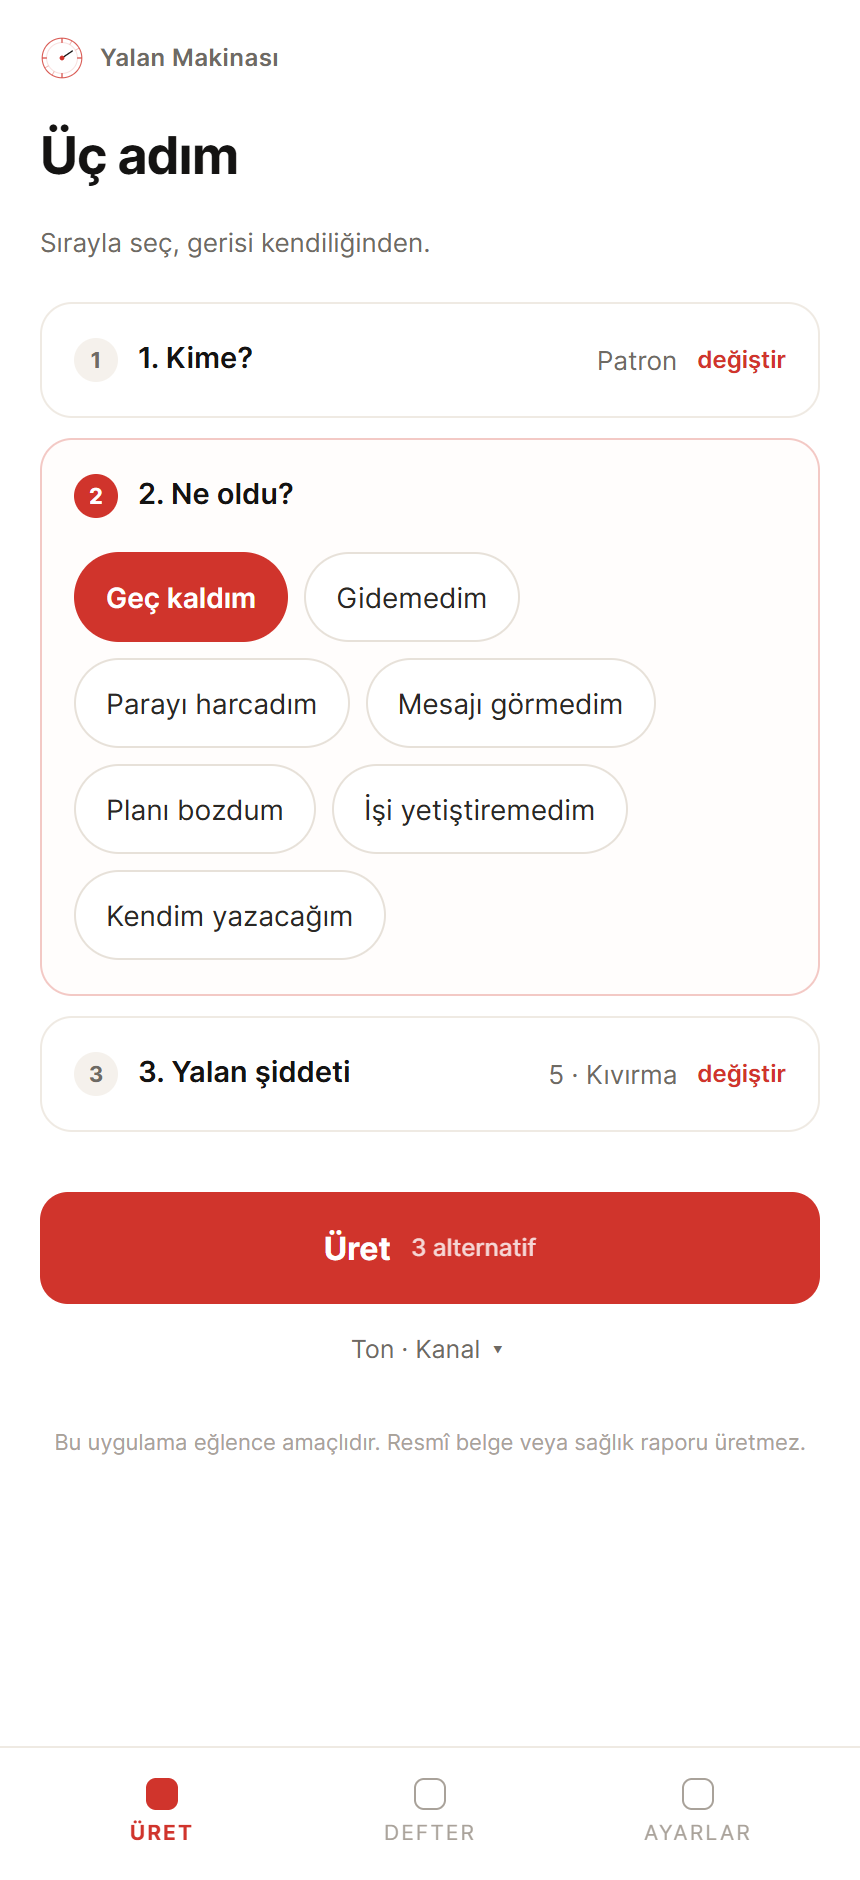
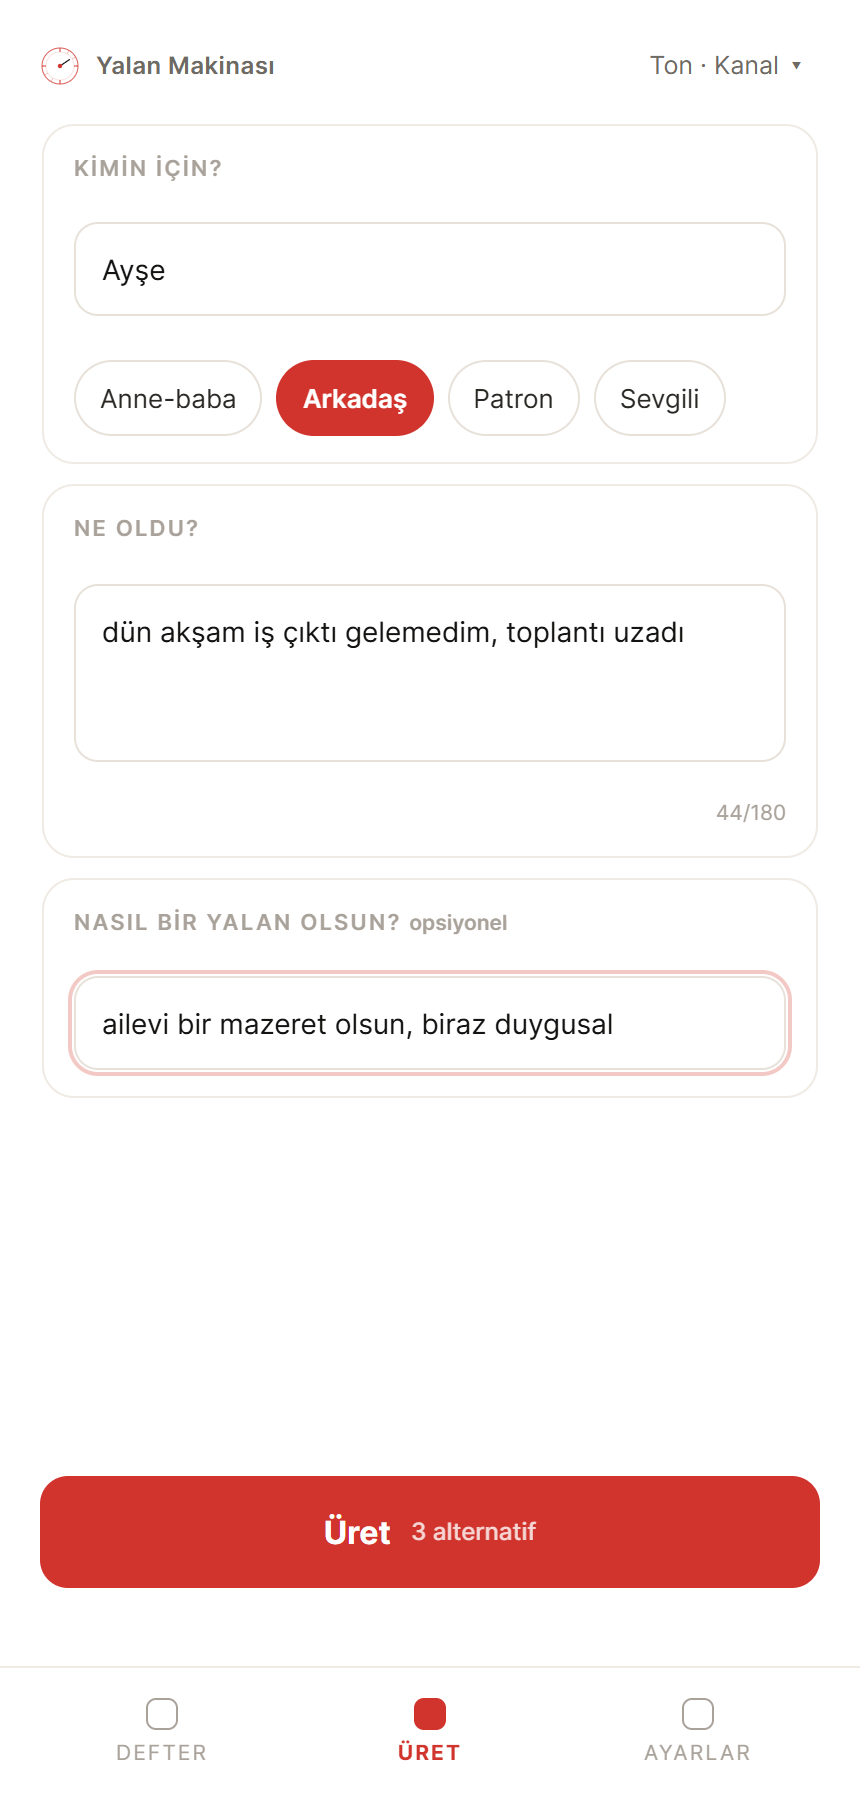
docs: README v0.9.1 — yeni özellikler, güncel ekran görüntüleri, rozetler

diff --git a/README.md b/README.md
@@ -13,7 +13,9 @@
   <img src="https://img.shields.io/badge/react-19-d0342c" alt="React 19">
   <img src="https://img.shields.io/badge/node-26-141312" alt="Node 26">
   <img src="https://img.shields.io/badge/platform-android%20%2B%20web-d0342c" alt="Android + web">
-  <img src="https://img.shields.io/badge/test-115%20geçti-3f8a53" alt="115 test">
+  <img src="https://img.shields.io/badge/test-179%20ge%C3%A7ti-3f8a53" alt="179 test">
+  <img src="https://img.shields.io/badge/dil-TR%20%2F%20EN-d0342c" alt="Türkçe + English">
+  <img src="https://img.shields.io/badge/s%C3%BCr%C3%BCm-0.9.1-141312" alt="v0.9.1">
   <a href="https://alhndgn.github.io/yalan-makinasi/"><img src="https://img.shields.io/badge/gizlilik-politikas%C4%B1-6e6a64" alt="Gizlilik"></a>
 </p>
 
@@ -22,42 +24,53 @@
 - **Önce defter, sonra üretim.** Kime ne söylediğini kaydet (kendin yaz ya da üret); uygulama kişiye göre gruplar, arama yapar, çelişkileri işaretler.
 - **"Ne diyeyim?"** Karşı taraf bir soru sorduğunda kaydın altına yazarsın, söylediğin yalanla çelişmeyen cevabı hazırlar.
 - **Geçmişi hatırlayan yapay zekâ.** Yeni bahane üretirken aynı kişiye son 5 kaydı okur: aynı bahaneyi tekrar etmez, ayrıntıları (yer/saat/tanık) çelişmez.
-- **Şablon değil, bağlam.** Kime, hangi durumda, hangi kanalda ve ne kadar "şiddetli" bir bahaneye ihtiyacın olduğunu seçersin; metinler ona göre yazılır.
-- **1-10 yalan şiddeti.** Tek cümlelik beyaz yalandan, zaman çizgisi ve tanık iması olan senaryoya kadar ölçeklenir.
+- **Şablon değil, bağlam.** Kime, hangi durumda, hangi kanalda söylediğini bilir; kişi profilindeki samimiyet ve hitap bilgisiyle yazar.
+- **Çelişki ekranı.** Aynı kişiye söylediğin iki kayıt birbirini tutmuyorsa (aynı mazeret, aynı cümle, aynı gün iki farklı bahane, zıt ayrıntı) yan yana gösterir ve nedenini yazar.
+- **Karnesi ve takvimi var.** Kişi bazında tutma oranı, en sık kullanılan bahane; son 30 günün ısı haritası.
 - **Risk ölçer.** Her metnin yakalanma riski 0-100 arasında puanlanır ve nedenleri yazılır.
 - **Soru provası.** Karşı tarafın soracağı en olası 3 soru ve **metinle çelişmeyen** cevapları hazırlanır.
-- **Yalan Defteri.** Ne dediğini, tutup tutmadığını kaydeder; aynı kişiye çelişkili bahaneler verirsen uyarır.
+- **Yalan Defteri.** Ne dediğini, tutup tutmadığını kaydeder; 48 saat sonra "tuttu mu?" diye sorar.
+- **Kilit.** 4 haneli şifre (cihazda PBKDF2 ile saklanır, düz metin yok) — defteri eline alan açamaz.
+- **İki dilli.** İlk açılışta bir kez dil sorulur; arayüz ve yapay zekâ çıktısı Türkçe ya da İngilizce.
 - **İnsan gibi yazar.** Prompt, "Kesinlikle / Ayrıca / umarım" gibi makine kalıplarını yasaklar; günlük konuşma diline kalibre edilmiştir.
 
 ## Ekranlar
 
 <table>
   <tr>
-    <td width="50%"><img src="docs/screenshots/01-form.png" alt="Üç adım"></td>
-    <td width="50%"><img src="docs/screenshots/02-yukleniyor.png" alt="Üretim bekleniyor"></td>
-  </tr>
-  <tr>
-    <td align="center"><b>Üç adım:</b> kime, ne oldu, şiddet</td>
-    <td align="center"><b>Üretim:</b> bahane bulunuyor…</td>
-  </tr>
-  <tr>
+    <td width="50%"><img src="docs/screenshots/01-form.png" alt="Tek ekran form"></td>
     <td width="50%"><img src="docs/screenshots/03-deste.png" alt="Alternatifler"></td>
-    <td width="50%"><img src="docs/screenshots/04-detay.png" alt="Tam ekran"></td>
   </tr>
   <tr>
+    <td align="center"><b>Tek ekran:</b> kime, ne oldu, nasıl bir yalan</td>
     <td align="center"><b>Deste:</b> üç alternatif, kaydırarak gez</td>
-    <td align="center"><b>Tam ekran:</b> risk, sorular, kaydet</td>
+  </tr>
+  <tr>
+    <td width="50%"><img src="docs/screenshots/04-detay.png" alt="Tam ekran"></td>
+    <td width="50%"><img src="docs/screenshots/07-defter-kisiler.png" alt="Kişi karnesi"></td>
+  </tr>
+  <tr>
+    <td align="center"><b>Tam ekran:</b> WhatsApp gibi soru-cevap, kaydet</td>
+    <td align="center"><b>Karne:</b> tutma oranı, en sık bahane</td>
   </tr>
 </table>
 
 <table>
   <tr>
-    <td width="50%"><img src="docs/screenshots/07-defter-kisiler.png" alt="Defter — kişiler"></td>
-    <td width="50%"><img src="docs/design/defter-cevap.png" alt="Ne diyeyim?"></td>
+    <td width="50%"><img src="docs/screenshots/09-celiski.png" alt="Çelişkiler"></td>
+    <td width="50%"><img src="docs/screenshots/08-takvim.png" alt="Takvim"></td>
   </tr>
   <tr>
-    <td align="center"><b>Defter:</b> kişiye göre kayıtlar, arama</td>
-    <td align="center"><b>"Ne diyeyim?":</b> çelişmeyen cevap</td>
+    <td align="center"><b>Çelişkiler:</b> iki kayıt yan yana, nedeni yazılı</td>
+    <td align="center"><b>Takvim:</b> son 30 gün</td>
+  </tr>
+  <tr>
+    <td width="50%"><img src="docs/screenshots/10-kilit.png" alt="Defter kilidi"></td>
+    <td width="50%"><img src="docs/screenshots/02-yukleniyor.png" alt="Üretim bekleniyor"></td>
+  </tr>
+  <tr>
+    <td align="center"><b>Kilit:</b> 4 haneli şifre</td>
+    <td align="center"><b>Üretim:</b> durum değerlendiriliyor…</td>
   </tr>
 </table>
 
@@ -70,6 +83,10 @@
 | **Analiz** | risk puanı + nedenleri, karşı tarafın soruları ve çelişmeyen cevaplar |
 | **Defter** | kişiye göre gruplu kayıtlar, arama, `beklemede → tuttu / tutmadı`, çelişki işareti |
 | **Ne diyeyim?** | kayıtlı yalanın ardından gelen soruya çelişmeyen cevap (AI + şablon yedeği) |
+| **Çelişki** | aynı mazeret / aynı cümle / aynı gün iki bahane / zıt ayrıntı — deterministik motor (`src/engine/conflict.ts`) |
+| **Karne + takvim** | tutma oranı, en sık bahane, son 30 gün ısı haritası |
+| **Hatırlatma** | 48 saat beklemede kalan kayıt için yerel bildirim (web'de bant) |
+| **Kilit** | 4 haneli PIN, PBKDF2 + salt, 5 yanlışta bekleme, "unuttum" → destek |
 | **Manuel kayıt** | kendi yalanını yaz: kişi, metin, durum, kanal |
 | **Paylaşım** | panoya kopyala, WhatsApp'a at, 1080×1350 paylaşım kartı indir |
 | **Motor** | AI öncelikli; yapay zekâya ulaşılamazsa cihaz içi deterministik şablon motoru |
@@ -149,8 +166,12 @@ npm test          # 115 test: motor, API, AI istemcisi, arayüz akışı
 - [x] Paylaşım kartı, splash, üç adımlı akış
 - [x] AI beyni (deepseek-v4.1-flash), deste + tam ekran akışı
 - [x] Yalan defteri odaklı yeniden kurgu: kişi bazlı kayıtlar, "ne diyeyim", geçmişi hatırlayan AI
+- [x] Tek ekran form, sabit doz, kişi profili (hitap + sen/siz)
+- [x] İki dilli arayüz (TR/EN) — dil seçimi ilk açılışta, AI de o dilde yazıyor
+- [x] Çelişki ekranı, kişi karnesi, takvim, akıbet hatırlatması, 4 haneli defter kilidi
+- [ ] Ana ekran widget'ı (native)
 - [ ] Topluluk akışı (oy, yorum)
-- [ ] Play Store yayını
+- [ ] Play Store yayını (AI anahtarının sunucuya taşınmasından sonra)
 
 ## Lisans
 
